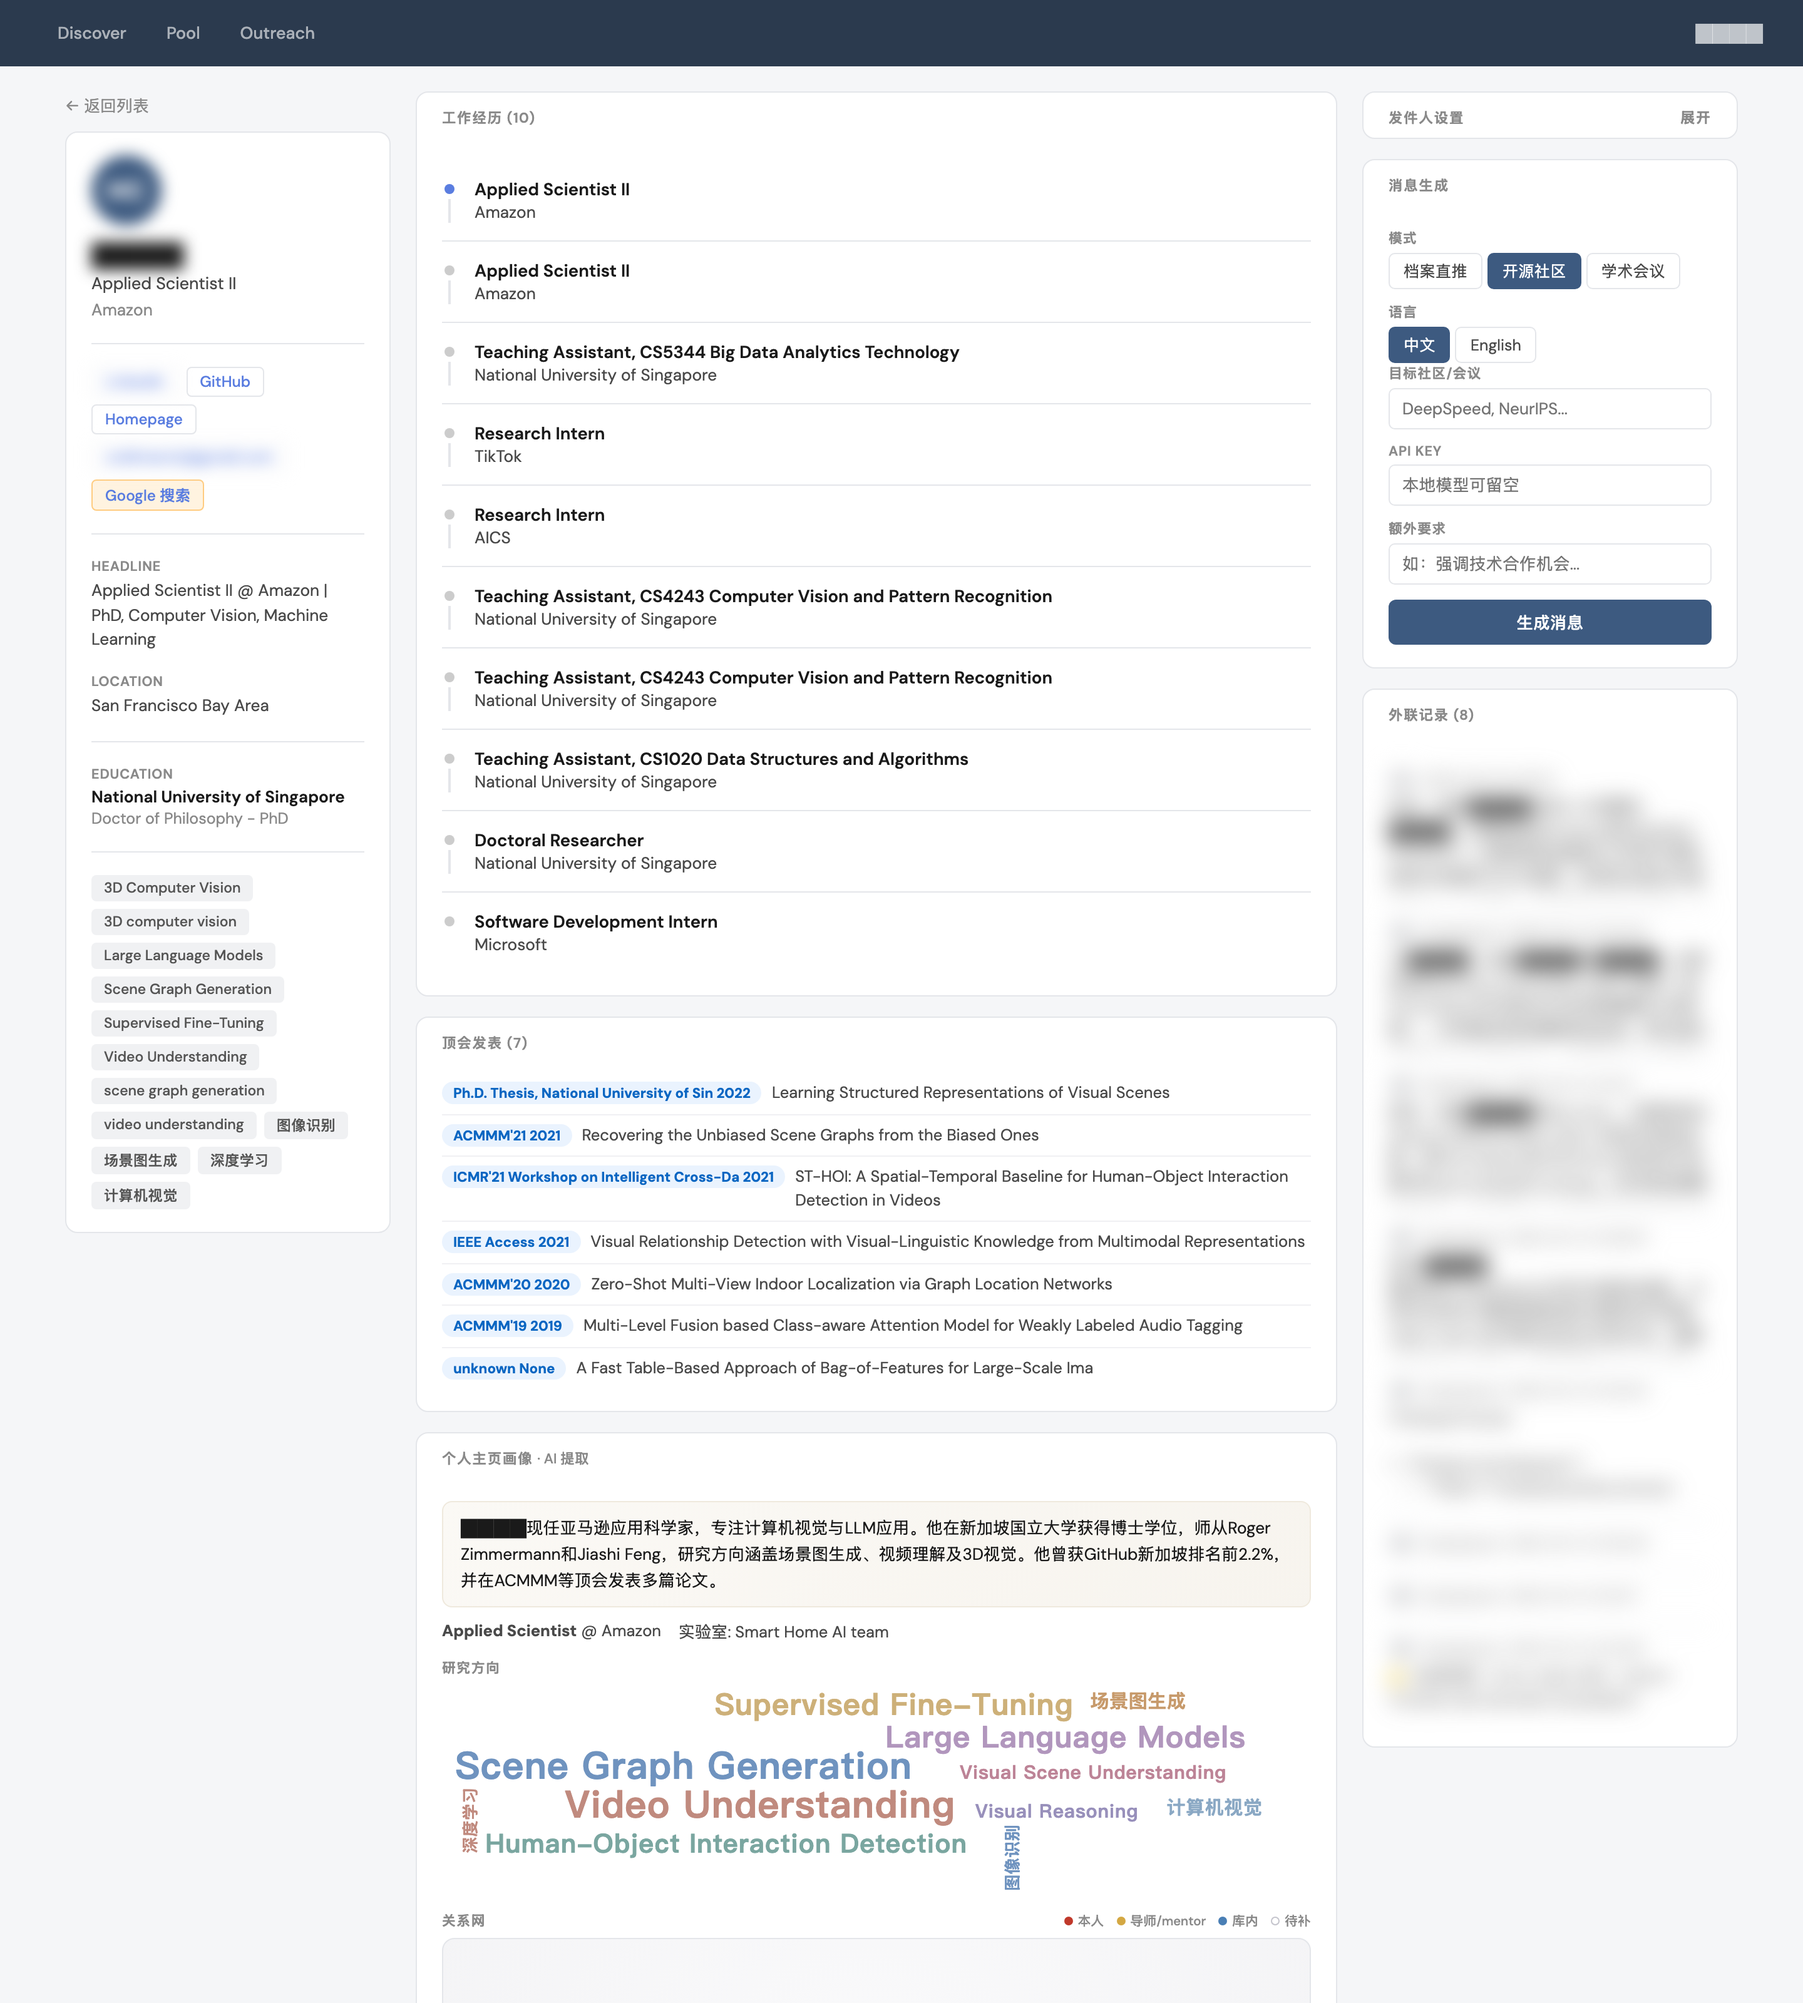
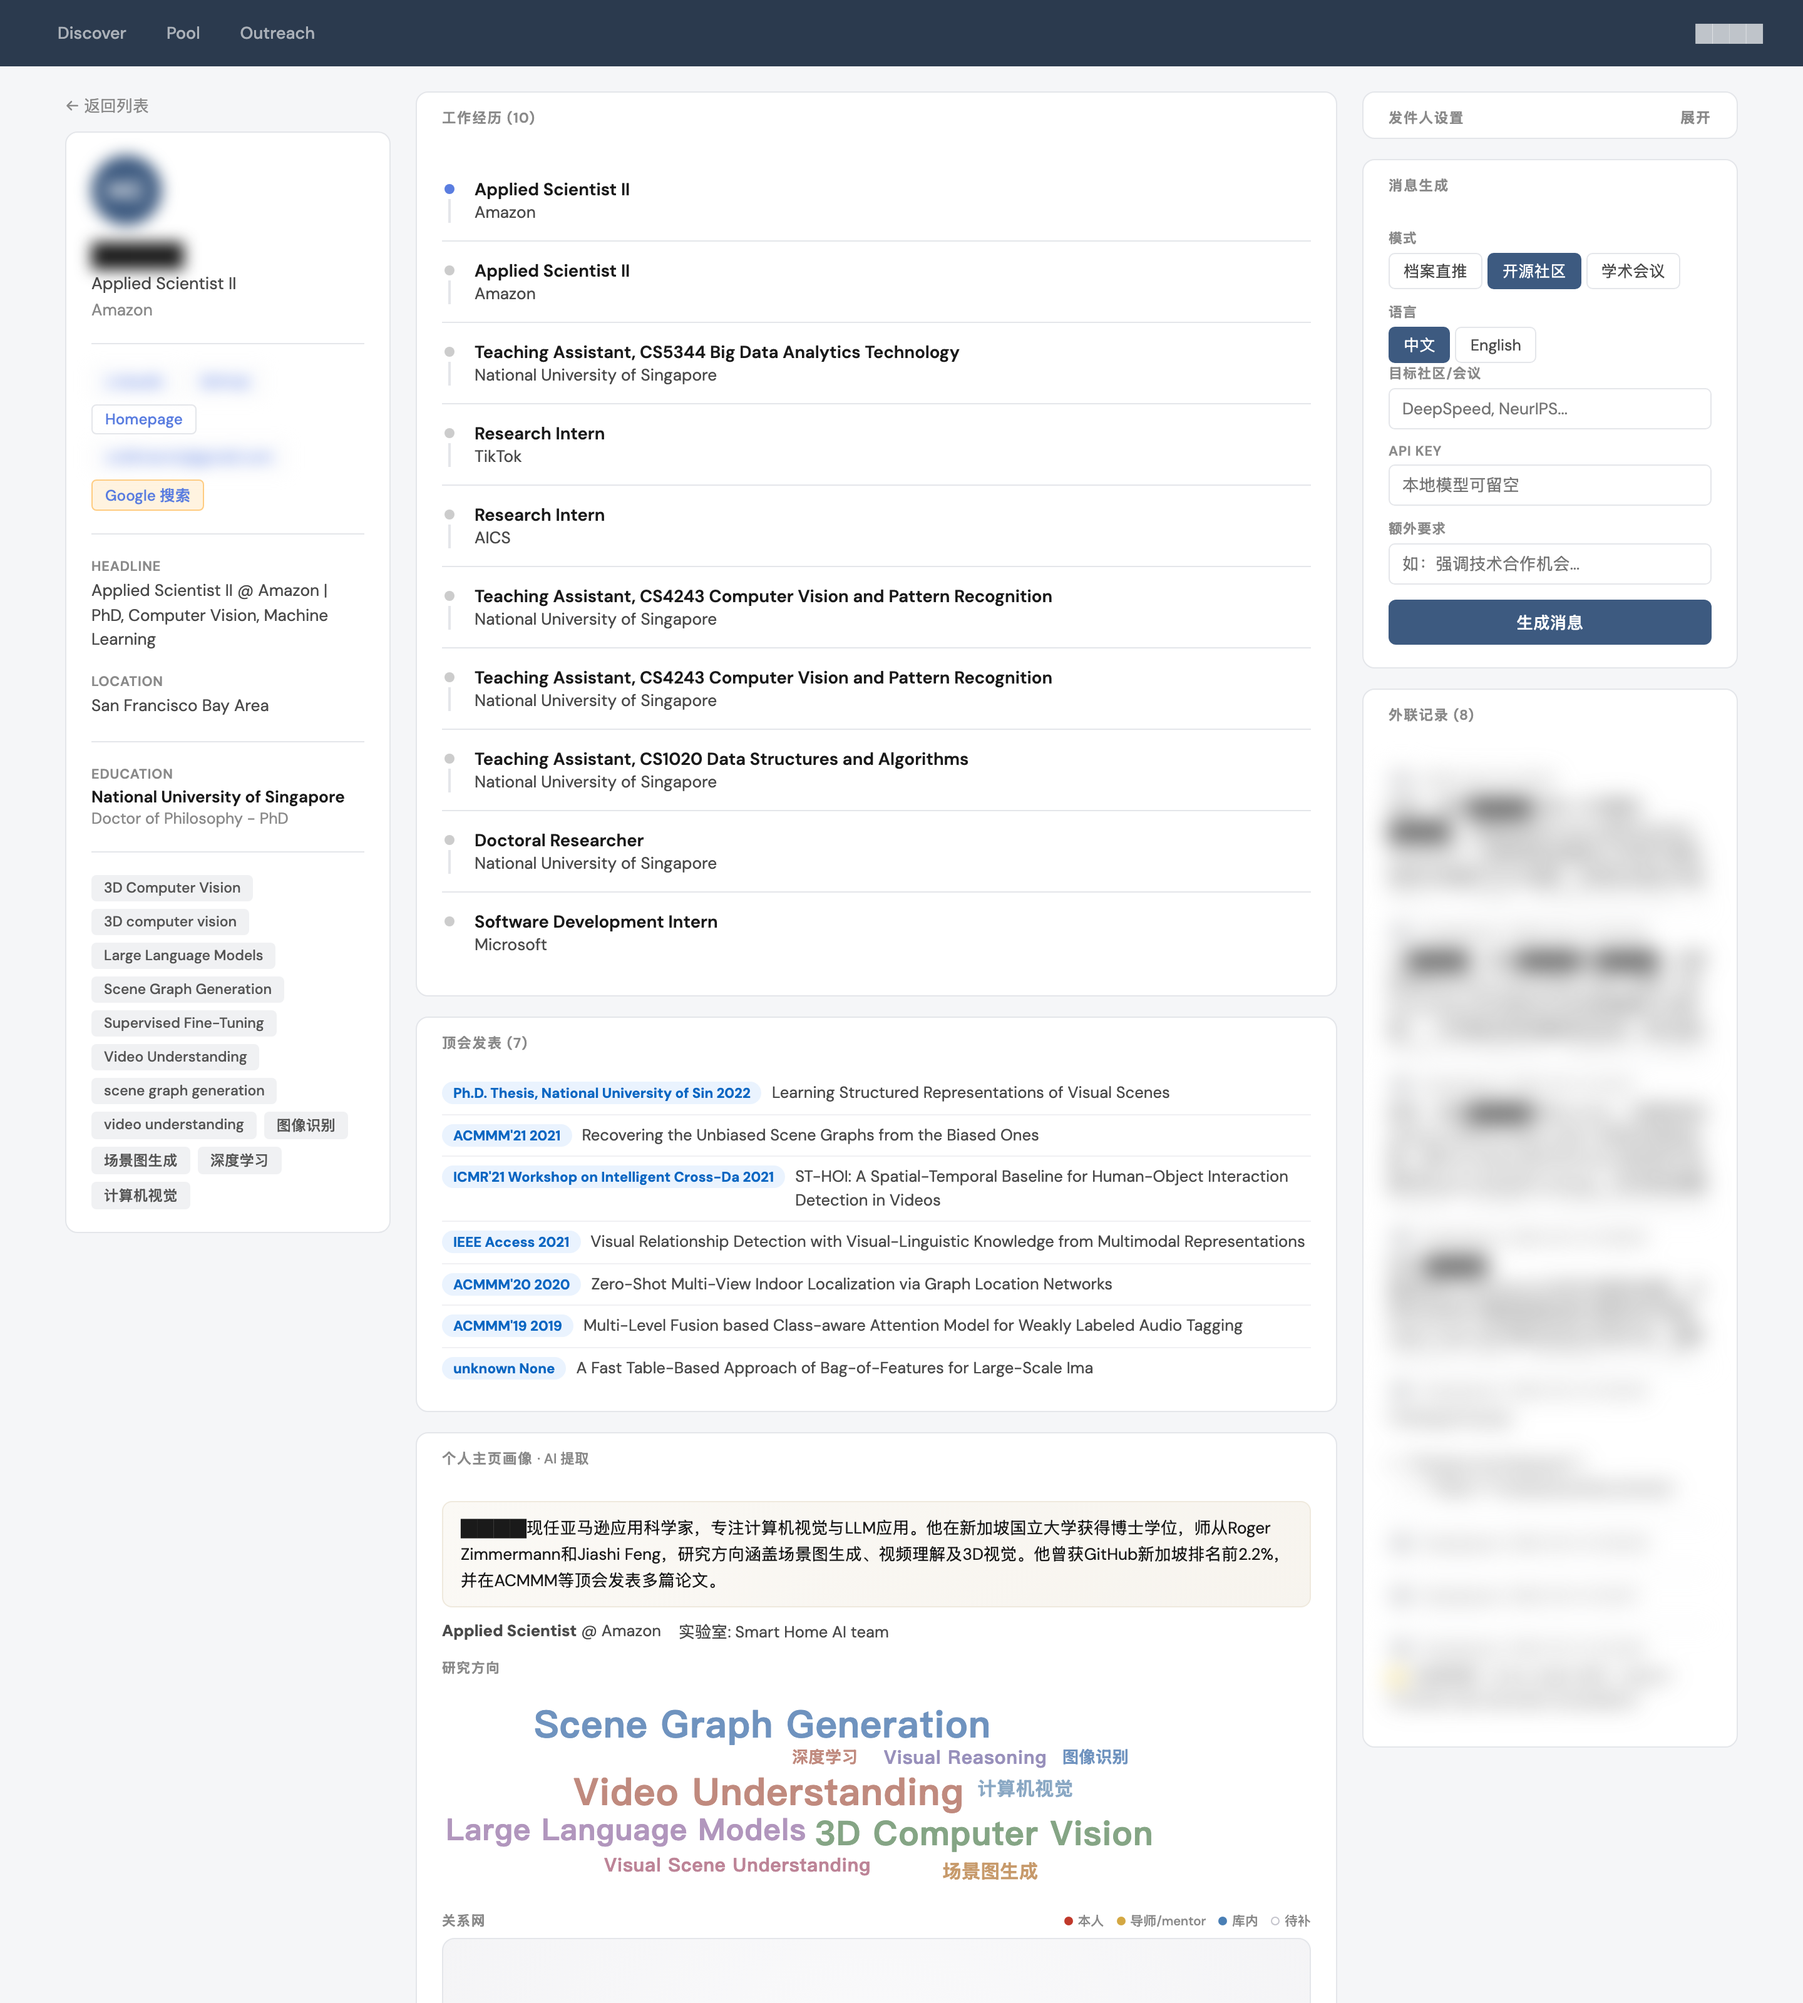
fix: 外联漏斗口径与显示修复,同步更新截图
- app.py: "已补充"不是外联阶段,从漏斗移除(曾致转化率 4833%),
  补充进度保留独立卡片
- people.html: 漏斗窄条(<15%)时数值移到条外,不再截断(435 显示成 4)
- 重截 pool/person-detail/academic 三张脱敏截图

Changed region(s): [[0.25, 0.8438, 0.6875, 0.9375]]

diff --git a/templates/people.html b/templates/people.html
@@ -879,10 +879,11 @@
         funnelHTML += `
           <div style="display:flex;align-items:center;gap:8px;">
             <div style="width:52px;text-align:right;font-size:0.72rem;color:#8a8a8a;flex-shrink:0;">${step.label}</div>
-            <div style="flex:1;position:relative;">
-              <div style="background:${funnelColors[i] || '#8e9aaf'};height:24px;border-radius:4px;width:${widthPct}%;display:flex;align-items:center;padding:0 8px;transition:width 0.6s ease;">
-                <span style="font-size:0.72rem;color:#fff;font-weight:500;white-space:nowrap;">${step.value.toLocaleString()}</span>
+            <div style="flex:1;position:relative;display:flex;align-items:center;gap:6px;">
+              <div style="background:${funnelColors[i] || '#8e9aaf'};height:24px;border-radius:4px;width:${widthPct}%;display:flex;align-items:center;padding:0 8px;transition:width 0.6s ease;flex-shrink:0;">
+                ${widthPct >= 15 ? `<span style="font-size:0.72rem;color:#fff;font-weight:500;white-space:nowrap;">${step.value.toLocaleString()}</span>` : ''}
               </div>
+              ${widthPct < 15 ? `<span style="font-size:0.72rem;color:#5a5a5a;font-weight:500;white-space:nowrap;">${step.value.toLocaleString()}</span>` : ''}
             </div>
             ${convRate ? `<div style="width:40px;font-size:0.68rem;color:#8a8a8a;flex-shrink:0;">${convRate}</div>` : '<div style="width:40px;"></div>'}
           </div>`;

diff --git a/app.py b/app.py
@@ -1282,9 +1282,10 @@ def api_people_insights():
     replied = conn.execute("SELECT COUNT(DISTINCT person_id) FROM history WHERE person_id IS NOT NULL AND status = 'replied'").fetchone()[0]
     interviewing = conn.execute("SELECT COUNT(*) FROM people WHERE status = 'interviewing'").fetchone()[0]
 
+    # 已补充(enriched)不是外联阶段,放进漏斗会打破单调性
+    # (已联系 435 / 已补充 9 → 转化率 4833%),它有独立的"补充进度"卡片
     funnel = [
         {"label": "总库", "value": total},
-        {"label": "已补充", "value": enriched},
         {"label": "已联系", "value": contacted},
         {"label": "已回复", "value": replied},
         {"label": "面试中", "value": interviewing},
